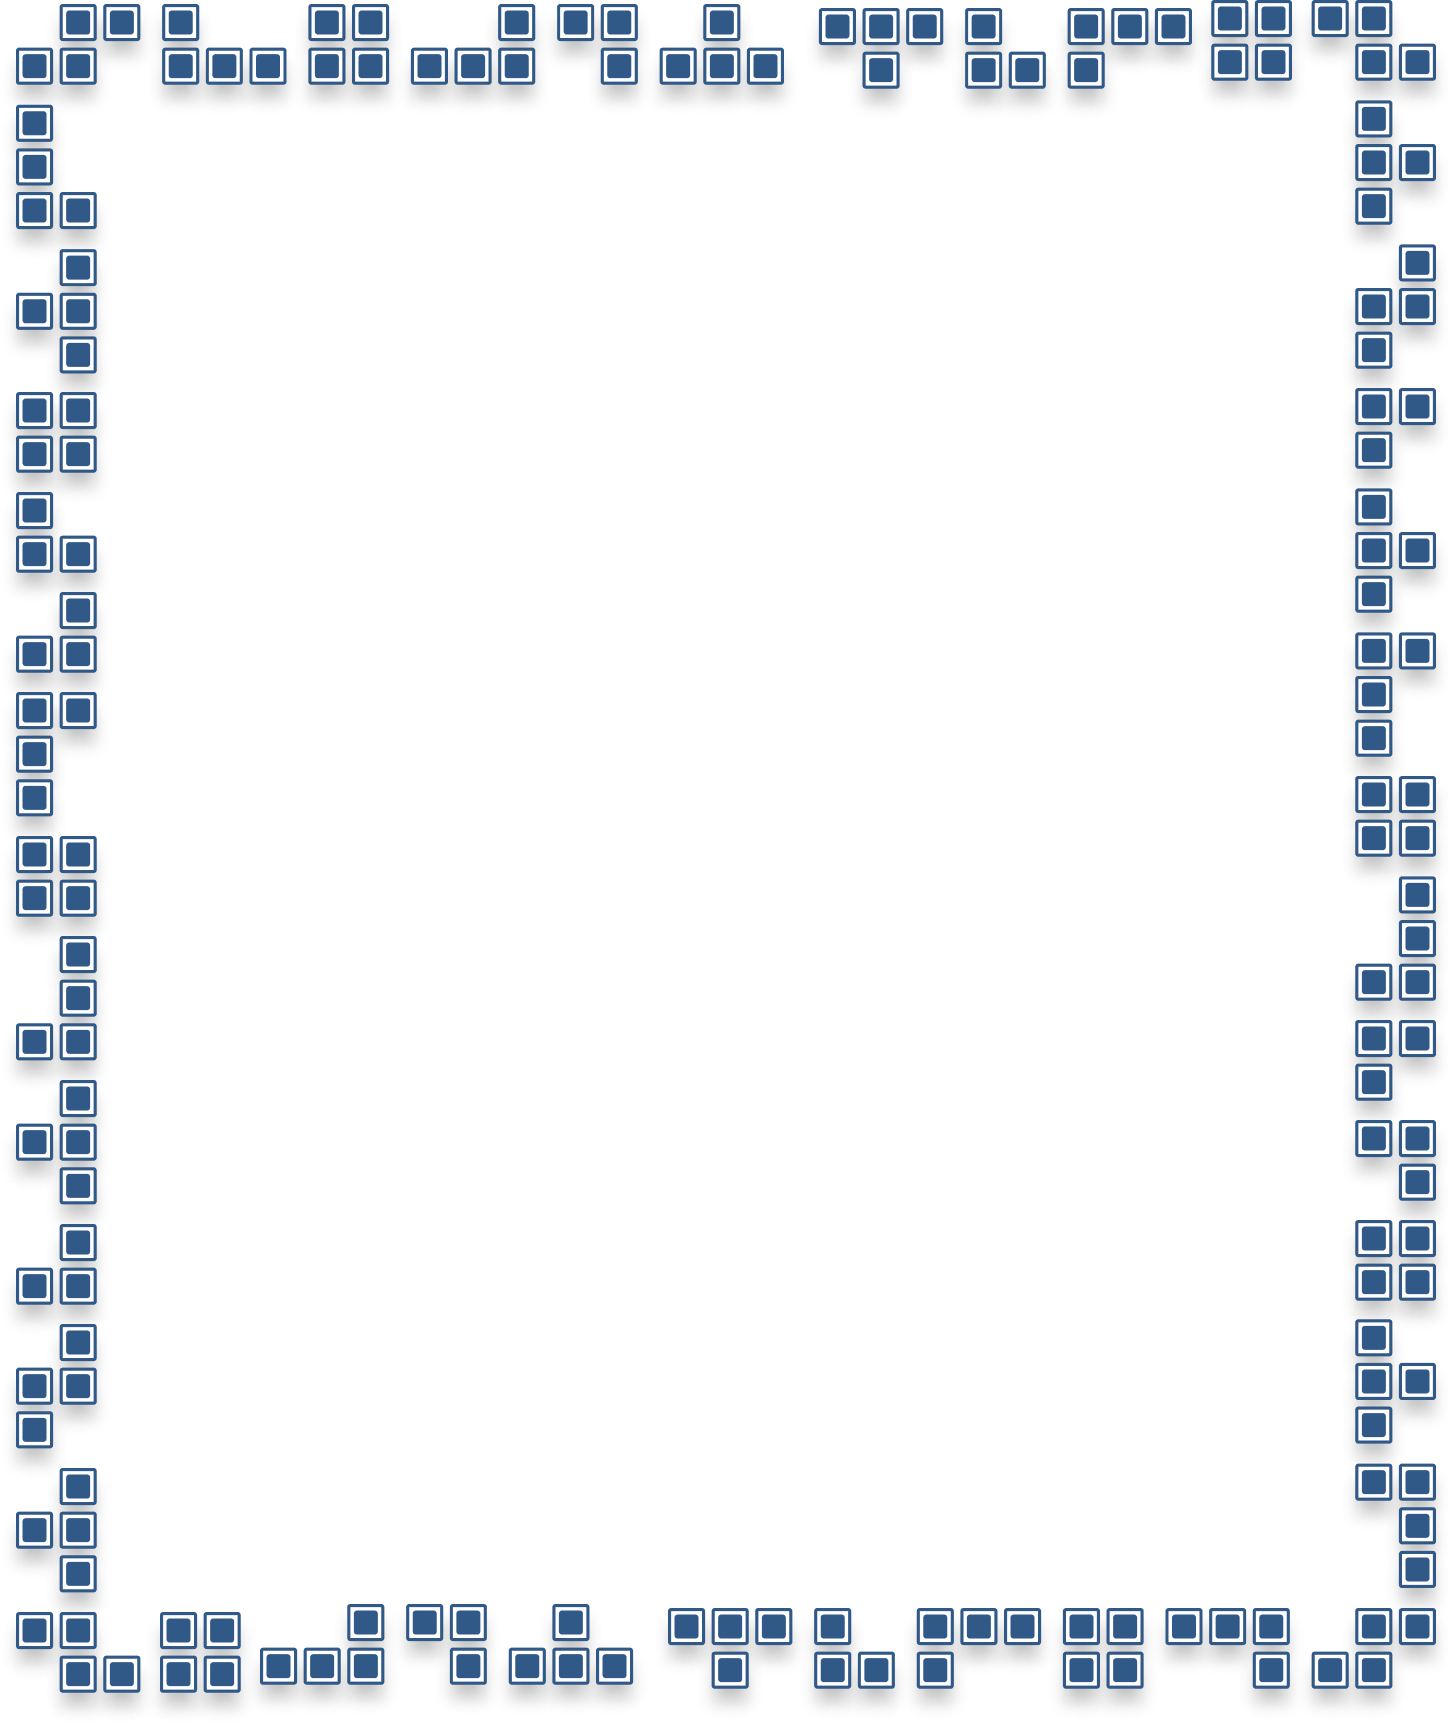
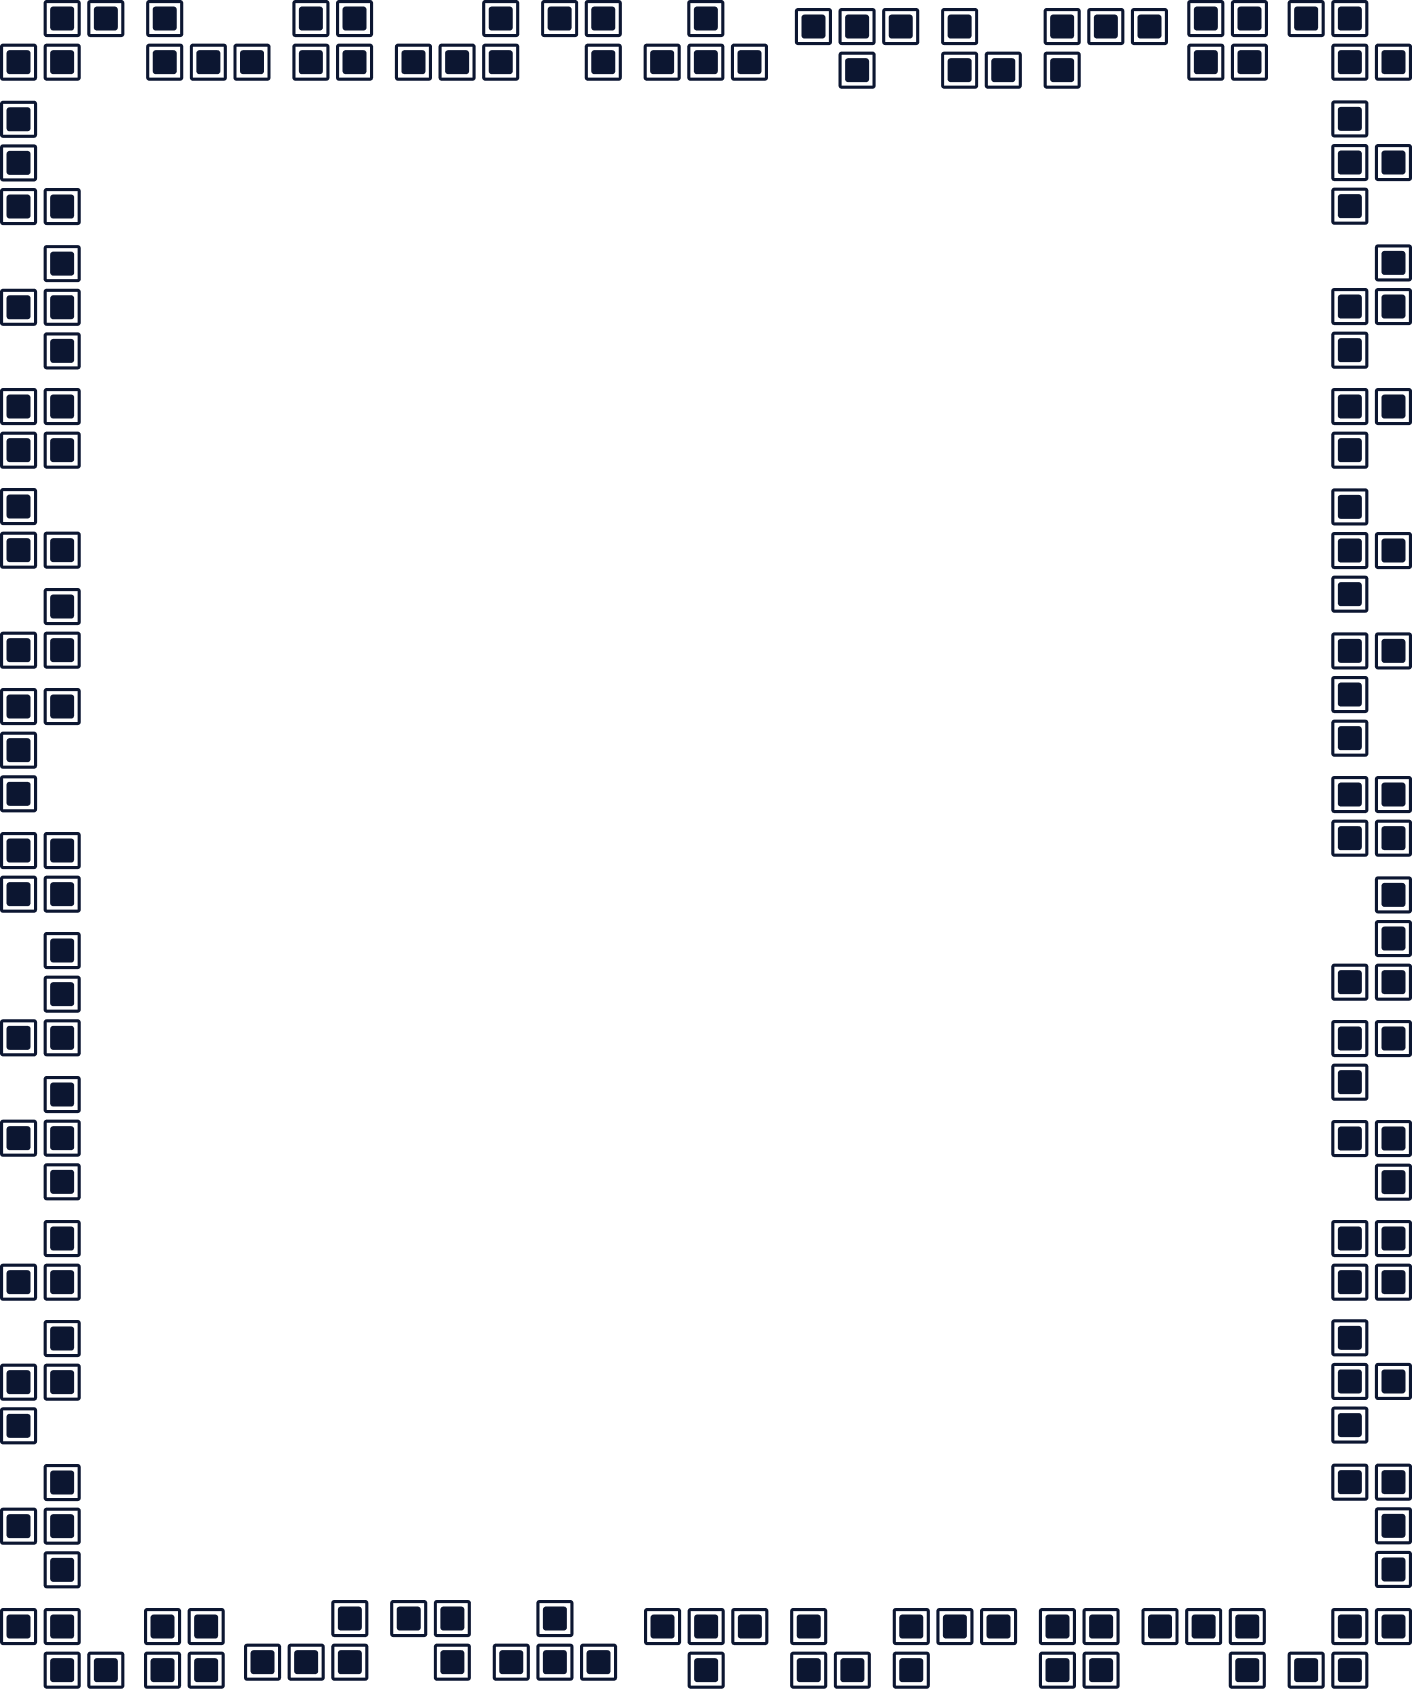
18/7/2023

Changed region(s): [[0.0, 0.0, 1.0, 1.0]]

diff --git a/lib/panel/page_portrait.dart b/lib/panel/page_portrait.dart
@@ -1,7 +1,9 @@
 import 'package:flutter/material.dart';
+import 'package:provider/provider.dart';
 import 'package:tetris/main.dart';
 import 'package:tetris/panel/controller.dart';
 import 'package:tetris/panel/screen.dart';
+import 'package:tetris/provider/darktheme.dart';
 import 'package:tetris/values/appColors.dart';
 import 'package:tetris/values/responsive_value.dart';
 
@@ -17,6 +19,9 @@ class _PagePortraitState extends State<PagePortrait> {
   Widget build(BuildContext context) {
     final size = MediaQuery.of(context).size;
     final screenW = size.width * 0.72;
+
+    final themeChange = Provider.of<DarkThemeProvider>(context);
+
     return Scaffold(
       backgroundColor: Colors.transparent,
       body: SafeArea(
@@ -25,7 +30,7 @@ class _PagePortraitState extends State<PagePortrait> {
           child: Container(
             height: size.height,
             width: size.width,
-            decoration:  const BoxDecoration(
+            decoration:   BoxDecoration(
                 image: DecorationImage(
                   fit: BoxFit.fill,
                   image: AssetImage('assets/images/bg_main.png'),
@@ -39,9 +44,13 @@ class _PagePortraitState extends State<PagePortrait> {
                   Container(
                     padding: EdgeInsets.only(top: getHeight(25),bottom: getHeight(15),left: getWidth(20),right: getWidth(20)),
                     width: size.width,
-                    child: Image.asset("assets/images/logo_terties.png"),
+                    child: Image.asset(
+                        "assets/images/logo_terties.png",
+                      color: themeChange.darkTheme ? AppColors.color31: AppColors.white,
+                    ),
                     decoration: BoxDecoration(
-                      color: AppColors.color3C
+                        color: themeChange.darkTheme ? AppColors.colorEB: AppColors.color3C,
+
                     ),
                   ),
                   SizedBox(height: size.height*0.006),
@@ -52,10 +61,13 @@ class _PagePortraitState extends State<PagePortrait> {
                       Container(
                           padding: EdgeInsets.only(left: getWidth(15),right: getWidth(15),top: getHeight(8),bottom: getHeight(5)),
                           width: size.width,
-                          child: Image.asset("assets/images/frame.png", fit: BoxFit.fill,color: AppColors.white),
+                          child: Image.asset("assets/images/frame.png",
+                            fit: BoxFit.fill,
+                            color: themeChange.darkTheme ? AppColors.color31: AppColors.white,
+                          ),
                           decoration:   BoxDecoration(
-                          color: AppColors.color3C,
-                      )),
+                            color: themeChange.darkTheme ? AppColors.colorEB: AppColors.color3C,
+                          )),
                       Positioned(
                         top: size.height*0.055,
                         child: _ScreenDecoration(child: Screen(width: screenW)),

diff --git a/lib/panel/controller.dart b/lib/panel/controller.dart
@@ -2,8 +2,10 @@ import 'dart:async';
 import 'dart:math' as math;
 
 import 'package:flutter/material.dart';
+import 'package:provider/provider.dart';
 import 'package:tetris/gamer/gamer.dart';
 import 'package:tetris/generated/l10n.dart';
+import 'package:tetris/provider/darktheme.dart';
 import 'package:tetris/values/appColors.dart';
 import 'package:tetris/values/font_utils.dart';
 import 'package:tetris/values/responsive_value.dart';
@@ -14,6 +16,9 @@ class GameController extends StatelessWidget {
 
     var width = MediaQuery.of(context).size.width;
     var height = MediaQuery.of(context).size.height;
+
+    final themeChange = Provider.of<DarkThemeProvider>(context);
+
     return Column(
       crossAxisAlignment: CrossAxisAlignment.start,
       mainAxisAlignment: MainAxisAlignment.start,
@@ -24,7 +29,7 @@ class GameController extends StatelessWidget {
           child: SystemButtonGroup(),
           decoration: BoxDecoration(
             shape: BoxShape.rectangle,
-            color: AppColors.color3C
+            color: themeChange.darkTheme ? AppColors.colorEB: AppColors.color3C,
           ),
         ),
         SizedBox(height: height*0.008),
@@ -473,7 +478,7 @@ class GameController extends StatelessWidget {
           ),
           decoration: BoxDecoration(
               shape: BoxShape.rectangle,
-              color: AppColors.color3C
+            color: themeChange.darkTheme ? AppColors.colorEB: AppColors.color3C,
           ),
         ),
 
@@ -504,6 +509,7 @@ class DirectionController extends StatelessWidget {
 
 class SystemButtonGroup extends StatelessWidget {
   static const _systemButtonColor = const Color(0xFF2dc421);
+
 
   @override
   Widget build(BuildContext context) {
@@ -792,6 +798,8 @@ class _Description extends StatelessWidget {
 
   @override
   Widget build(BuildContext context) {
+    final themeChange = Provider.of<DarkThemeProvider>(context);
+
     Widget widget;
     switch (direction) {
       case AxisDirection.right:
@@ -823,7 +831,7 @@ class _Description extends StatelessWidget {
       style: FontTextStyleUtilities.textStyle12.copyWith(
           fontWeight: FontWeight.w600,
           fontFamily: 'Montserrat-Bold',
-        color: AppColors.white
+        color: themeChange.darkTheme ? AppColors.color31: AppColors.white,
       )
     );
   }

diff --git a/lib/values/appColors.dart b/lib/values/appColors.dart
@@ -9,6 +9,7 @@ abstract class AppColors{
   static const colorA3 = Color(0xFF984EA3);
   static const color99 = Color(0xFF999999);
   static const colorE8 = Color(0xFFE8E8E8);
+  static const colorEB = Color(0xFFEBEBEB);
   static const color06 = Color(0xFFFCCB06);
   static const color1C = Color(0xFFE41A1C);
   static const colorBF = Color(0xFFF781BF);
@@ -17,6 +18,7 @@ abstract class AppColors{
   static const color3C = Color(0xFF05193C);
   static const darkgrey88 = Color(0xFF6C7688);
   static const textColor39 = Color(0xFF051839);
+  static const color31 = Color(0xFF0C1631);
   static const color9D = Color(0xFF18499D);
   static const colorD6 = Color(0xFF175DD6);
   static const green71 = Color(0xFF0DBA71);

diff --git a/lib/panel/player_panel.dart b/lib/panel/player_panel.dart
@@ -72,7 +72,7 @@ class _GameUninitialized extends StatelessWidget {
             IconDragon(animate: true),
             SizedBox(height: 16),
             Text(
-              "tetrix",
+              "Tetris",
               style: TextStyle(fontSize: 20),
             ),
           ],
